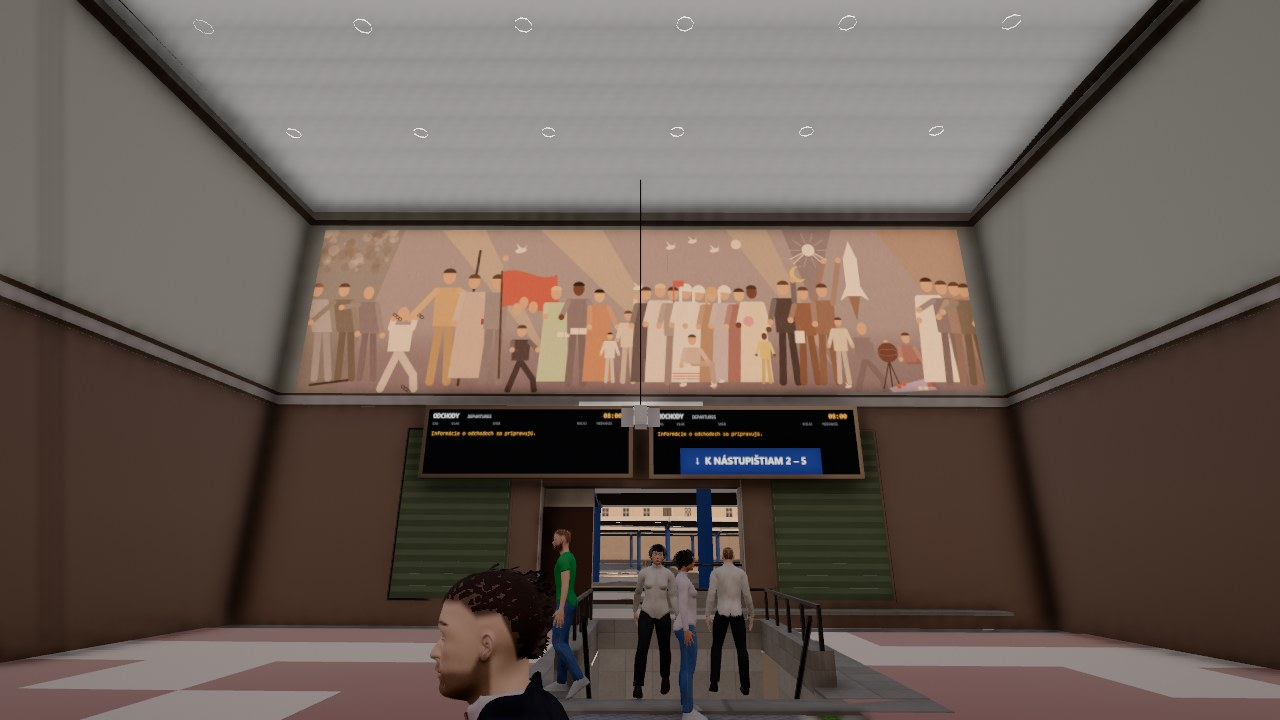
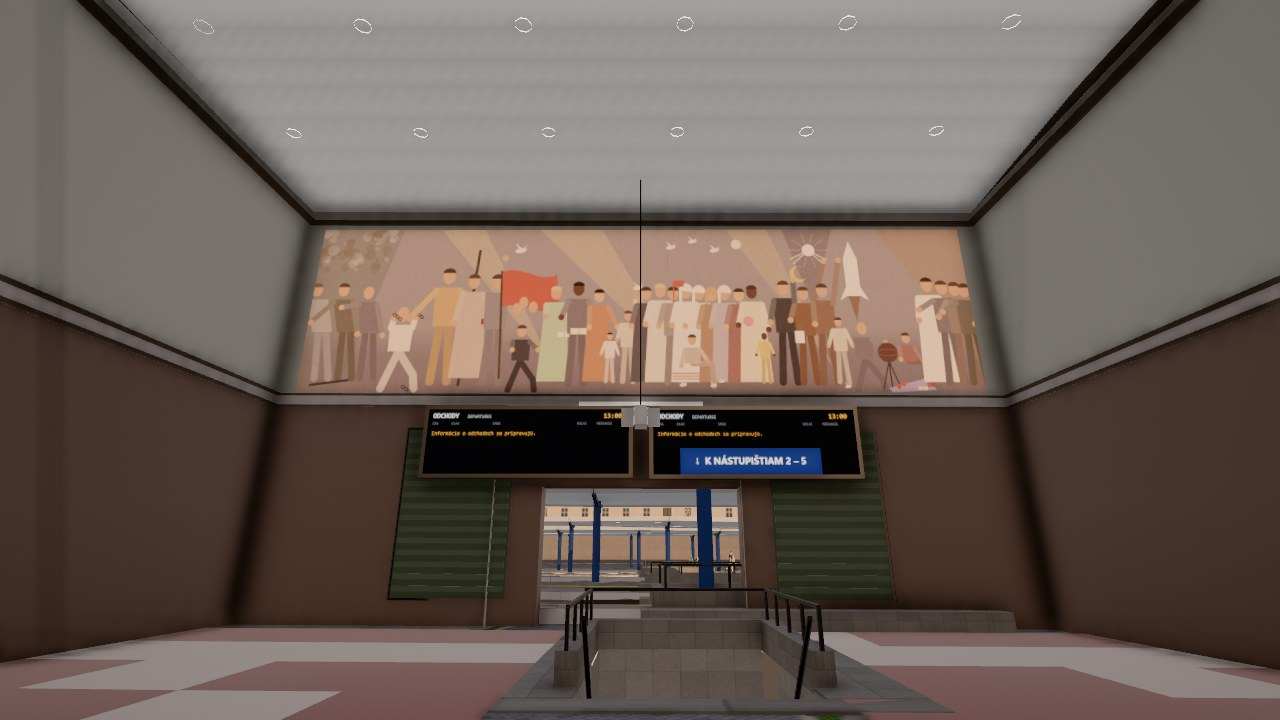
Stanica: nové snímky trasy po, priebeh práce

Changed region(s): [[0.3125, 0.6722, 0.8125, 1.0]]

diff --git a/docs/kontrola/stanica-po/index.html b/docs/kontrola/stanica-po/index.html
@@ -1,5 +1,5 @@
 <!doctype html><html lang="sk"><meta charset="utf-8"><title>Kontrola mesta – stanica-po</title>
 <style>body{font:14px system-ui;margin:20px;background:#1b2430;color:#e8e8e8}figure{display:inline-block;margin:0 8px 8px 0}
 img{width:560px;display:block;border-radius:4px}small{color:#9aa}a{color:#9cf}</style>
-<h1>Kontrola mesta – stanica-po</h1><p>commit ? · 2026-11-22T16:28 · <a href="../porovnanie.html">porovnanie behov</a></p>
-<section><h2>Hlavná stanica <small>hlavna-stanica · x -97, z -1640 · 12 s</small></h2><figure><img src="hlavna-stanica-ulica.jpg" loading="lazy"><figcaption>ulica</figcaption></figure><figure><img src="hlavna-stanica-zhora.jpg" loading="lazy"><figcaption>zhora</figcaption></figure></section><section><h2>Hlavná stanica – historická hala s freskou <small>stanica-hala · x -110.5, z -1684.6 · 3 s</small></h2><figure><img src="stanica-hala-ulica.jpg" loading="lazy"><figcaption>ulica</figcaption></figure></section><section><h2>Hlavná stanica – 1. nástupište <small>stanica-nastupiste · x -140.4, z -1727 · 13 s</small></h2><figure><img src="stanica-nastupiste-ulica.jpg" loading="lazy"><figcaption>ulica</figcaption></figure></section></html>
+<h1>Kontrola mesta – stanica-po</h1><p>commit ? · 2026-11-22T17:24 · <a href="../porovnanie.html">porovnanie behov</a></p>
+<section><h2>Hlavná stanica <small>hlavna-stanica · x -97, z -1640 · 3 s</small></h2><figure><img src="hlavna-stanica-ulica.jpg" loading="lazy"><figcaption>ulica</figcaption></figure><figure><img src="hlavna-stanica-zhora.jpg" loading="lazy"><figcaption>zhora</figcaption></figure></section><section><h2>Hlavná stanica – historická hala s freskou <small>stanica-hala · x -110.5, z -1684.6 · 4 s</small></h2><figure><img src="stanica-hala-ulica.jpg" loading="lazy"><figcaption>ulica</figcaption></figure></section><section><h2>Hlavná stanica – 1. nástupište <small>stanica-nastupiste · x -140.4, z -1727 · 3 s</small></h2><figure><img src="stanica-nastupiste-ulica.jpg" loading="lazy"><figcaption>ulica</figcaption></figure></section></html>

diff --git a/napady/priebeh.md b/napady/priebeh.md
@@ -60,3 +60,7 @@ odmieta súbory dlaždíc). Blender: `PYTHONPATH=%LOCALAPPDATA%\blender-balicky`
   jednu výšku a sklo v línii obrysu z OSM.
 - Okolie stanice: zastávky s prístreškami a lampy už v hre sú; chýba trakčné vedenie električiek a trolejbusov →
   samostatná vetva (celé mesto, nie len stanica).
+- Majiteľ 22. 11.: dvere, vchody a východy stanice napasovať, chodci po schodoch a cez dvere, „rampy“ nie do múrov →
+  dvere sú tam, kde pešia cesta z OSM prechádza múrom; bočný priechod má otvor po celej šírke (vonkajšie schody pri
+  Skleníku viedli do vnútorného múru medzi časťami budovy); chodci nechodia cez múry stanice (udalosť
+  'steny-chodcov'), chodia podchodom a po nástupištiach (udalosť 'ciary-chodcov'), výšku majú ako hráč.
